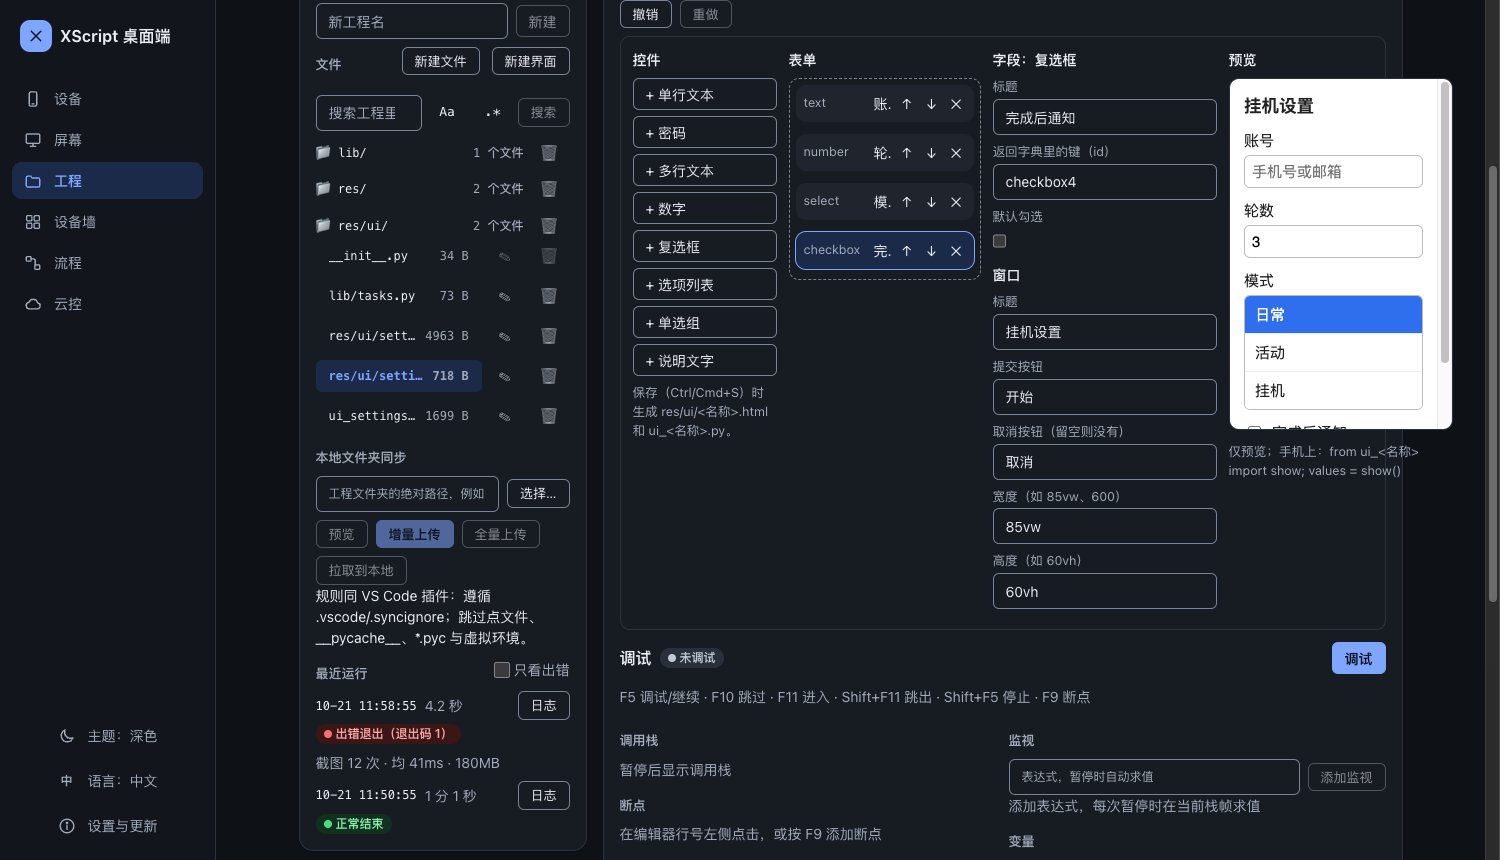
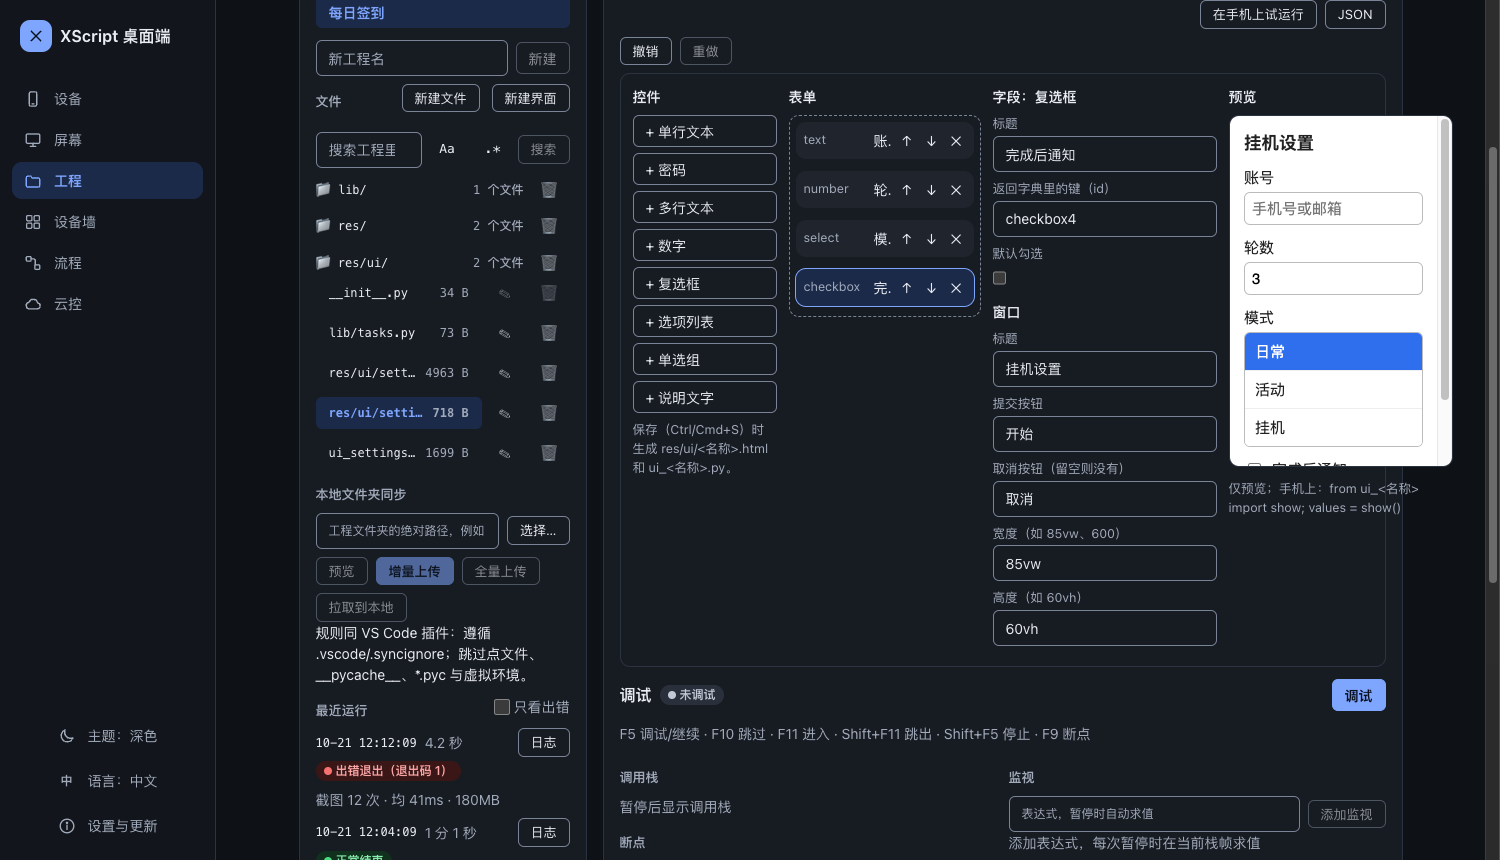
docs(desktop): document 在手机上试运行 and refresh designer screenshots

diff --git a/desktop/app/tools/screenshot-ui-designer.js b/desktop/app/tools/screenshot-ui-designer.js
@@ -23,5 +23,5 @@
   await sleep(500);
   if (window.__XS_SAVE__ !== false) btn((b) => b.textContent.trim() === "保存")?.click();
   await sleep(2500);
-  document.querySelector(".ui-designer")?.parentElement?.scrollIntoView({ block: "start" });
+  (btn((b) => b.textContent.trim() === "在手机上试运行") || document.querySelector(".ui-designer"))?.scrollIntoView({ block: "start" });
 })();

diff --git a/docs/使用手册.md b/docs/使用手册.md
@@ -573,7 +573,7 @@ yolo export model=runs/detect/train/weights/best.pt format=onnx imgsz=640
 
 ![桌面端工程页：最近运行展开一次出错退出的日志，下面是「复制日志」和「跳到出错行 lib/tasks.py:3」](images/desktop-recent-runs-light.png)
 
-**界面设计器**：在工程页打开 `res/ui/<名称>.ui.json`（和 VS Code 扩展、网页 IDE 用同一个设计器）时，默认显示设计视图：左边点或拖控件加入表单，中间调整字段顺序或删除，右边改字段属性和窗口标题、按钮、宽高，最右是实时预览。点 **JSON** 切到文本编辑（下方仍有只读预览，文件有问题时列出原因），点 **设计** 切回来。设计器上方的 **撤销** / **重做**（Ctrl/⌘+Z、Ctrl/⌘+Shift+Z）逐步撤回或重做设计器里的修改，在「JSON」里改过的内容也算一步；在属性输入框里按这些键只作用于那个输入框。改动没保存时，打开别的文件、切换工程或关窗口都会先问你。**保存**（Ctrl+S / ⌘S）时同时生成 `res/ui/<名称>.html` 和 `ui_<名称>.py`，脚本里 `from ui_<名称> import show; values = show()` 即可弹出表单；JSON 有错时只保存文本、不生成，并提示原因。新建界面：点文件列表上方的 **新建界面**，输入名称（字母、数字、下划线，例如 `settings`），会创建 `res/ui/<名称>.ui.json`（空表单，窗口标题就是这个名称）并在设计器里打开；同名界面已存在时会提示。用 **新建文件** 输入以 `.ui.json` 结尾的路径也会带一个空表单。
+**界面设计器**：在工程页打开 `res/ui/<名称>.ui.json`（和 VS Code 扩展、网页 IDE 用同一个设计器）时，默认显示设计视图：左边点或拖控件加入表单，中间调整字段顺序或删除，右边改字段属性和窗口标题、按钮、宽高，最右是实时预览。点 **JSON** 切到文本编辑（下方仍有只读预览，文件有问题时列出原因），点 **设计** 切回来。设计器上方的 **撤销** / **重做**（Ctrl/⌘+Z、Ctrl/⌘+Shift+Z）逐步撤回或重做设计器里的修改，在「JSON」里改过的内容也算一步；在属性输入框里按这些键只作用于那个输入框。改动没保存时，打开别的文件、切换工程或关窗口都会先问你。**保存**（Ctrl+S / ⌘S）时同时生成 `res/ui/<名称>.html` 和 `ui_<名称>.py`，脚本里 `from ui_<名称> import show; values = show()` 即可弹出表单；JSON 有错时只保存文本、不生成，并提示原因。点 **在手机上试运行** 先保存，再把生成的 `.html` / `ui_<名称>.py` 放进手机上的临时工程 `_ui_try`（带一个只调用 `show()` 并打印结果的 `__init__.py`）运行：手机上弹出这个界面，提交或取消后运行日志里出现 `界面返回：{...}`（取消时是 `null`）。当前工程和它的 `__init__.py` 不会被改动；`_ui_try` 每次试运行都会被覆盖，不需要时可在工程列表里删除。新建界面：点文件列表上方的 **新建界面**，输入名称（字母、数字、下划线，例如 `settings`），会创建 `res/ui/<名称>.ui.json`（空表单，窗口标题就是这个名称）并在设计器里打开；同名界面已存在时会提示。用 **新建文件** 输入以 `.ui.json` 结尾的路径也会带一个空表单。
 
 ![桌面端工程页：界面设计器，左侧控件、中间字段、右侧属性和预览](images/desktop-ui-designer-light.png)
 
